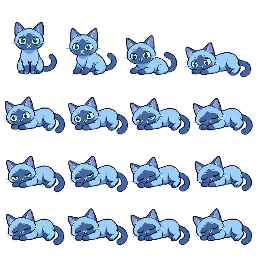
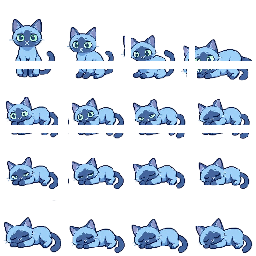
fix(cat): unclip sleep frames, restartable nap animations, wake returns to idle
- build-nap-sheets.mjs: fit-and-anchor pass — some source frames (sleeping
  cats) are drawn edge-to-edge so ears/back were cut at the cell border;
  each frame now downscales into a safe 58x56 box, horizontally centered,
  bottom-anchored to a shared ground line (verified: all 16 frames in all
  5 sheets fully inside their cells)
- tailwind-theme.css: nap sleep/wake each get their OWN animation-name
  (cat-sprite-loop-nap-sleep / -wake, duplicated stops). Reusing one name
  meant a finished animation is keyed by name and never restarts — wake
  froze on the sleep sheet's first frame, animationend never refired, and
  the second nap never animated
- wake-end already restores the idle sheet via animationend -> sleepMode
  null; with animations restarting properly this now works every time

diff --git a/src/tailwind-theme.css b/src/tailwind-theme.css
@@ -742,8 +742,7 @@ body[data-ui-scale="small"] {
     display: block;
     background-repeat: no-repeat;
     background-size: 400% 400%;
-    image-rendering: pixelated;
-    background-position: 0% 0%;
+    image-rendering: pixelated;    background-position: 0% 0%;
   }
   .cat-sprite-animate {
     animation: cat-sprite-loop 3.2s steps(1, end) 1;
@@ -753,15 +752,53 @@ body[data-ui-scale="small"] {
   .cat-sprite-eat {
     animation: cat-sprite-loop 4.8s steps(1, end) 1;
   }
-  /* Napping rig — same 16-frame sheet where frame 1 is standing and frame
-   * 16 is deep asleep. Falling asleep plays it forwards and `forwards`
-   * fill holds the last frame; waking plays it in reverse and holds the
-   * standing frame (both end on their final keyframe via fill mode). */
+  /* Napping rig — same 16-frame sheet: falling asleep plays it forwards and
+   * `forwards` fill holds the last frame; waking plays it in reverse. Each
+   * state uses its OWN animation-name (identical stops, duplicated keyframes):
+   * a finished CSS animation is keyed by name, so reusing one name across
+   * sleep→wake→sleep would never restart — the cat would stay frozen on the
+   * held frame and animationend would never fire again. */
+  @keyframes cat-sprite-loop-nap-sleep {
+    0% { background-position: 0% 0%; }
+    6.25% { background-position: 33.333% 0%; }
+    12.5% { background-position: 66.667% 0%; }
+    18.75% { background-position: 100% 0%; }
+    25% { background-position: 0% 33.333%; }
+    31.25% { background-position: 33.333% 33.333%; }
+    37.5% { background-position: 66.667% 33.333%; }
+    43.75% { background-position: 100% 33.333%; }
+    50% { background-position: 0% 66.667%; }
+    56.25% { background-position: 33.333% 66.667%; }
+    62.5% { background-position: 66.667% 66.667%; }
+    68.75% { background-position: 100% 66.667%; }
+    75% { background-position: 0% 100%; }
+    81.25% { background-position: 33.333% 100%; }
+    87.5% { background-position: 66.667% 100%; }
+    93.75%, 100% { background-position: 100% 100%; }
+  }
+  @keyframes cat-sprite-loop-nap-wake {
+    0% { background-position: 0% 0%; }
+    6.25% { background-position: 33.333% 0%; }
+    12.5% { background-position: 66.667% 0%; }
+    18.75% { background-position: 100% 0%; }
+    25% { background-position: 0% 33.333%; }
+    31.25% { background-position: 33.333% 33.333%; }
+    37.5% { background-position: 66.667% 33.333%; }
+    43.75% { background-position: 100% 33.333%; }
+    50% { background-position: 0% 66.667%; }
+    56.25% { background-position: 33.333% 66.667%; }
+    62.5% { background-position: 66.667% 66.667%; }
+    68.75% { background-position: 100% 66.667%; }
+    75% { background-position: 0% 100%; }
+    81.25% { background-position: 33.333% 100%; }
+    87.5% { background-position: 66.667% 100%; }
+    93.75%, 100% { background-position: 100% 100%; }
+  }
   .cat-sprite-sleep {
-    animation: cat-sprite-loop 3.6s steps(1, end) 1 forwards;
+    animation: cat-sprite-loop-nap-sleep 3.6s steps(1, end) 1 forwards;
   }
   .cat-sprite-wake {
-    animation: cat-sprite-loop 3.6s steps(1, end) 1 reverse forwards;
+    animation: cat-sprite-loop-nap-wake 3.6s steps(1, end) 1 reverse forwards;
   }
 
   /* Amber pulsing glow for keyword-alert thought bubbles. */
